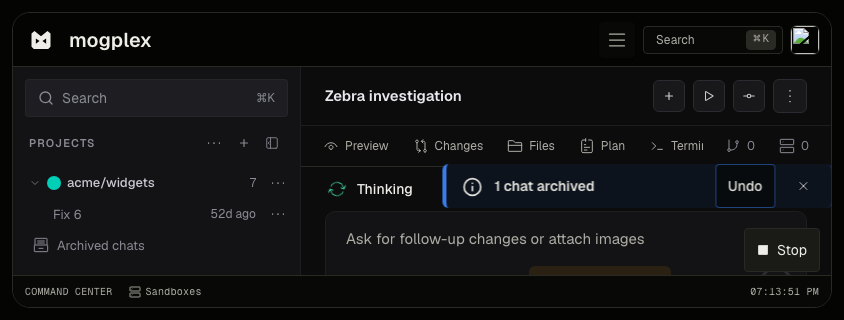
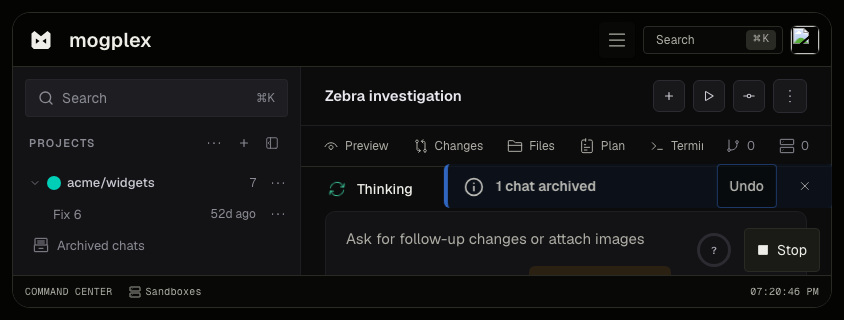
fix(control): keep context and Stop together on short screens

diff --git a/components/control/composer.tsx b/components/control/composer.tsx
@@ -333,7 +333,7 @@ export function Composer({
           <span className="text-[12px] text-ink-400">
             <McpStatusButton />
           </span>
-          <div className="ml-auto flex items-center gap-3">
+          <div className={`ml-auto flex items-center gap-3 ${pending ? "[@media(max-height:360px)]:fixed [@media(max-height:360px)]:right-[calc(env(safe-area-inset-right)+1.5rem)] [@media(max-height:360px)]:bottom-[calc(env(safe-area-inset-bottom)+3rem)] [@media(max-height:360px)]:z-50" : ""}`}>
             <ContextRing
               usageTokens={contextUsage?.model === modelId ? contextUsage.inputTokens + contextUsage.outputTokens : null}
               contextLimit={modelId ? contextLimits[modelId] : undefined}
@@ -344,7 +344,7 @@ export function Composer({
                 aria-label="Stop"
                 onClick={onStop}
                 title="Stop the current response"
-                className="flex h-9 items-center justify-center gap-2 rounded-md border border-border bg-muted px-3 text-sm text-foreground hover:bg-accent [@media(max-height:360px)]:fixed [@media(max-height:360px)]:right-[calc(env(safe-area-inset-right)+1.5rem)] [@media(max-height:360px)]:bottom-[calc(env(safe-area-inset-bottom)+3rem)] [@media(max-height:360px)]:z-50 [@media(max-height:360px)]:h-11 [@media(max-height:360px)]:min-w-11"
+                className="flex h-9 items-center justify-center gap-2 rounded-md border border-border bg-muted px-3 text-sm text-foreground hover:bg-accent [@media(max-height:360px)]:h-11 [@media(max-height:360px)]:min-w-11"
               >
                 <Square className="size-3 fill-current" />
                 Stop

diff --git a/hooks/use-toast-viewport.ts b/hooks/use-toast-viewport.ts
@@ -16,6 +16,7 @@ export function useToastViewport(active: boolean) {
     }
     let composer: HTMLElement | null = null;
     let toolbar: HTMLElement | null = null;
+    let controls: HTMLElement | null = null;
     let cleanupPosition: (() => void) | undefined;
     const measure = () => {
       if (!composer || !toolbar) {
@@ -59,6 +60,7 @@ export function useToastViewport(active: boolean) {
       cleanupPosition?.();
       cleanupPosition = undefined;
       composer = nextComposer;
+      controls = composer?.closest("fieldset") ?? null;
       toolbar = nextToolbar;
       if (composer && toolbar)
         cleanupPosition = autoUpdate(composer, toolbar, measure, {
@@ -66,7 +68,16 @@ export function useToastViewport(active: boolean) {
         });
       else measure();
     };
-    const mutations = new MutationObserver(bind);
+    const mutations = new MutationObserver((records) => {
+      bind();
+      if (
+        records.some(
+          ({ target }) =>
+            controls?.contains(target) || toolbar?.contains(target)
+        )
+      )
+        measure();
+    });
     mutations.observe(document.body, { childList: true, subtree: true });
     bind();
     return () => {

diff --git a/tests/e2e/control-sidebar-archive-races.spec.ts b/tests/e2e/control-sidebar-archive-races.spec.ts
@@ -52,7 +52,7 @@ for (const height of [390, 320]) {
       await expect(stop).toBeVisible();
       await expect(
         page.locator('[data-slot="toast-viewport"]')
-      ).toHaveJSProperty("clientHeight", 44);
+      ).toHaveAttribute("data-compact", "");
       await page.screenshot({
         path: testInfo.outputPath(`real-controls-${height}.png`),
       });
@@ -63,6 +63,13 @@ for (const height of [390, 320]) {
         .getByRole("button", { name: "Dismiss notification" })
         .boundingBox();
       const input = await composer.boundingBox();
+      const stopBox = await stop.boundingBox();
+      const context = await page
+        .getByLabel("Context usage", { exact: true })
+        .boundingBox();
+      expect(context!.x + context!.width).toBeLessThanOrEqual(stopBox!.x);
+      expect(context!.y + context!.height).toBeLessThanOrEqual(height);
+      expect(close!.height).toBeGreaterThanOrEqual(44);
       expect(close!.y).toBeGreaterThanOrEqual(viewport!.y);
       expect(close!.y + close!.height).toBeLessThanOrEqual(
         viewport!.y + viewport!.height
